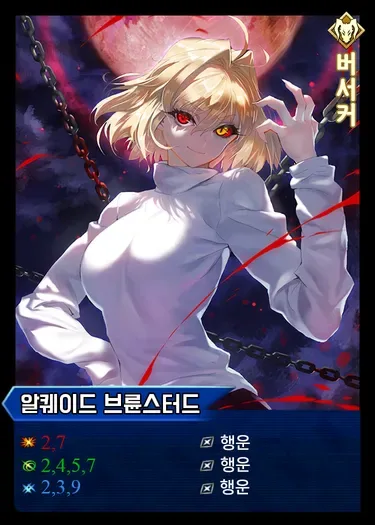
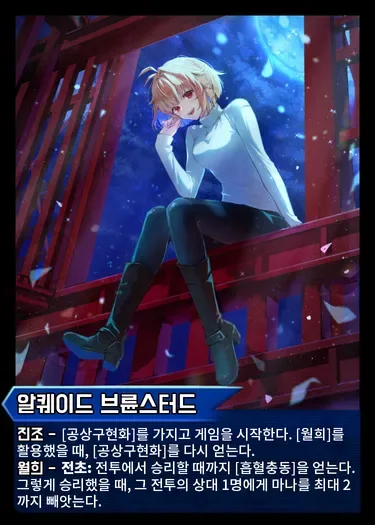
동명이인 카드가 같은 이미지를 쓰던 문제 수정
이름으로 지정한 매핑이 ID로 지정한 것보다 먼저 적용되어,
같은 이름의 다른 카드가 이미지를 공유해 버렸다.
ID 지정을 우선 처리하고 덮어쓰도록 변경.

- 에미야 시로(고항), 시엘(마스터), 알퀘이드(마스터) 각각 올바른 이미지로 교체

diff --git a/scripts/apply-manual-map.js b/scripts/apply-manual-map.js
@@ -47,10 +47,15 @@ async function main() {
 
   const byId = new Map(cards.map(c => [c.id, c]))
 
-  for (const [name, rel] of Object.entries(manual)) {
-    if (name.startsWith('_')) continue
-    // 동명이인이 있는 카드는 이름 대신 카드 ID로 지정할 수 있다
-    const targets = byId.has(name) ? [byId.get(name)] : byName.get(name)
+  // 카드 ID로 지정한 항목이 이름으로 지정한 항목보다 구체적이므로 먼저 처리하고,
+  // 이름 지정으로 이미 채워진 것도 덮어쓴다.
+  // (그렇지 않으면 동명이인 카드가 같은 이미지를 공유해 버린다)
+  const entries = Object.entries(manual).filter(([k]) => !k.startsWith('_'))
+  entries.sort((a, b) => (byId.has(b[0]) ? 1 : 0) - (byId.has(a[0]) ? 1 : 0))
+
+  for (const [name, rel] of entries) {
+    const isIdKey = byId.has(name)
+    const targets = isIdKey ? [byId.get(name)] : byName.get(name)
     if (!targets) { problems.push(`카드 없음: ${name}`); continue }
     const src = resolveFile(rel)
     if (!src) { problems.push(`파일 없음: ${name} → ${rel}`); continue }
@@ -61,7 +66,8 @@ async function main() {
     } catch (e) { problems.push(`변환 실패: ${name} (${e.message})`); continue }
 
     for (const c of targets) {
-      if (mapping[c.id]) { skipped++; continue }      // 이미 있으면 건드리지 않는다
+      // ID로 콕 집어 지정한 것은 덮어쓴다. 이름 지정은 빈 카드만 채운다.
+      if (mapping[c.id] && !isIdKey) { skipped++; continue }
       fs.writeFileSync(path.join(OUT_DIR, `${c.id}.webp`), buf)
       mapping[c.id] = `/cards/${c.id}.webp`
       made++
